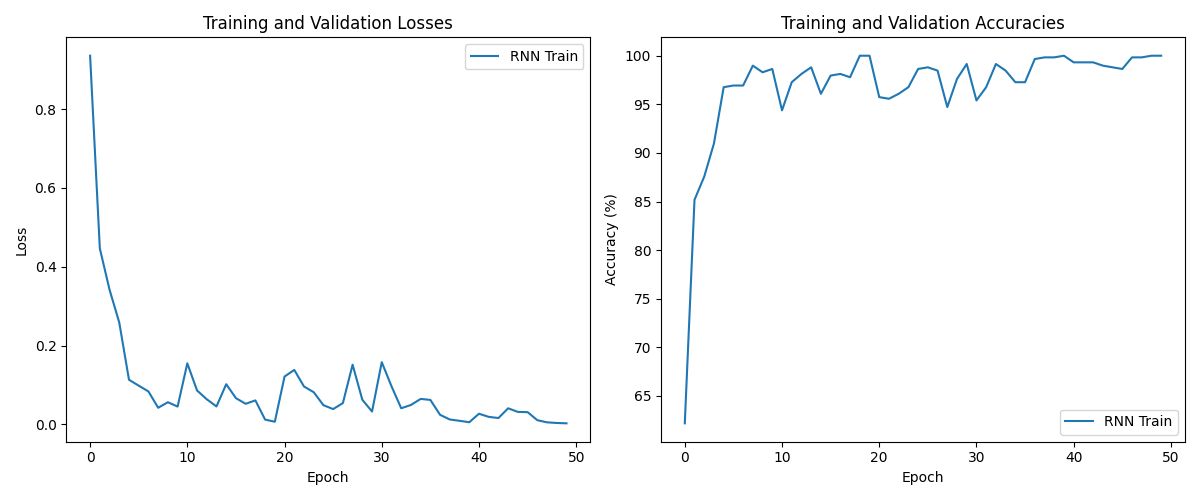
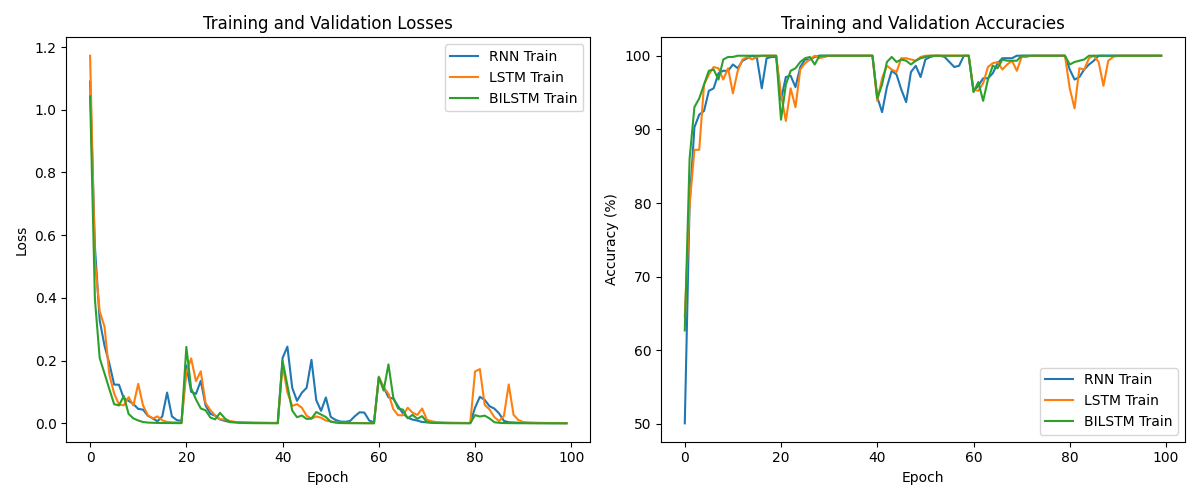
new results + changed train file output
removed confusion matrix on train result publish

diff --git a/part1/train.py b/part1/train.py
@@ -27,7 +27,7 @@ class ModelTrainer:
         self.test_losses = []
         self.test_accuracies = []
         
-    def train_model(self, train_loader, val_loader, test_loader, num_epochs=10):
+    def train_model(self, train_loader, val_loader, test_loader, num_epochs):
         print(f'\nTraining {self.model_type.upper()} model...')
         best_val_acc = 0.0
         best_model_state = None
@@ -63,7 +63,7 @@ class ModelTrainer:
             self.train_accuracies.append(train_acc)
             
             # Validation phase
-            val_loss, val_acc = self.evaluate_model(val_loader)
+            val_loss, val_acc, _, _ = self.evaluate_model(val_loader)
             self.val_losses.append(val_loss)
             self.val_accuracies.append(val_acc)
             
@@ -78,17 +78,15 @@ class ModelTrainer:
         
         # Load best model for final test evaluation
         self.model.load_state_dict(best_model_state)
-        test_loss, test_acc = self.evaluate_model(test_loader)
+        test_loss, test_acc, test_predictions, test_labels = self.evaluate_model(test_loader)
         self.test_losses.append(test_loss)
         self.test_accuracies.append(test_acc)
         
         print(f'\nFinal Test Results for {self.model_type.upper()}:')
         print(f'Test Loss: {test_loss:.4f}, Test Acc: {test_acc:.2f}%')
         
-        # Save the best model
-        timestamp = datetime.now().strftime("%Y%m%d_%H%M%S")
-        torch.save(best_model_state, f'har_model_{self.model_type}_{timestamp}.pth')
-        print(f'\nBest model saved to har_model_{self.model_type}_{timestamp}.pth')
+        # Plot confusion matrix after all training is complete
+        self.plot_confusion_matrix(test_predictions, test_labels)
     
     def evaluate_model(self, data_loader):
         self.model.eval()
@@ -118,11 +116,13 @@ class ModelTrainer:
         accuracy = 100 * correct / total
         
         # print classification report
-        print(f'\nClassification Report for {self.model_type.upper()}:')
-        print(classification_report(all_labels, all_predictions))
+        # print(f'\nClassification Report for {self.model_type.upper()}:')
+        # print(classification_report(all_labels, all_predictions))
         
-        # plot confusion matrix
-        cm = confusion_matrix(all_labels, all_predictions)
+        return avg_loss, accuracy, all_predictions, all_labels
+
+    def plot_confusion_matrix(self, predictions, labels):
+        cm = confusion_matrix(labels, predictions)
         plt.figure(figsize=(10, 8))
         sns.heatmap(cm, annot=True, fmt='d', cmap='Blues')
         plt.title(f'Confusion Matrix - {self.model_type.upper()}')
@@ -130,8 +130,6 @@ class ModelTrainer:
         plt.xlabel('Predicted Label')
         plt.savefig(f'aggregated_confusion_matrix_{self.model_type}.png')
         plt.close()
-        
-        return avg_loss, accuracy
 
 def plot_comparison(trainers):
     # plot training and validation losses
@@ -179,8 +177,8 @@ def main():
     num_layers = 2
     batch_size = 32
     sequence_length = 10
-    num_epochs = 10
-    n_splits = 5  # number of folds for cross-validation
+    num_epochs = 20
+    n_splits = 5 # number of folds for cross-validation
     
     # download dataset
     data_path = kagglehub.dataset_download("uciml/human-activity-recognition-with-smartphones")
@@ -190,7 +188,7 @@ def main():
     fold_loaders = get_data_loaders(data_path, batch_size, sequence_length, n_splits)
     
     # list of models to train
-    model_types = ['rnn'] # can throw in 'gru' as well
+    model_types = ['rnn', 'lstm', 'bilstm'] # can throw in 'gru' as well
     trainers = []
     
     # train each model on each fold
